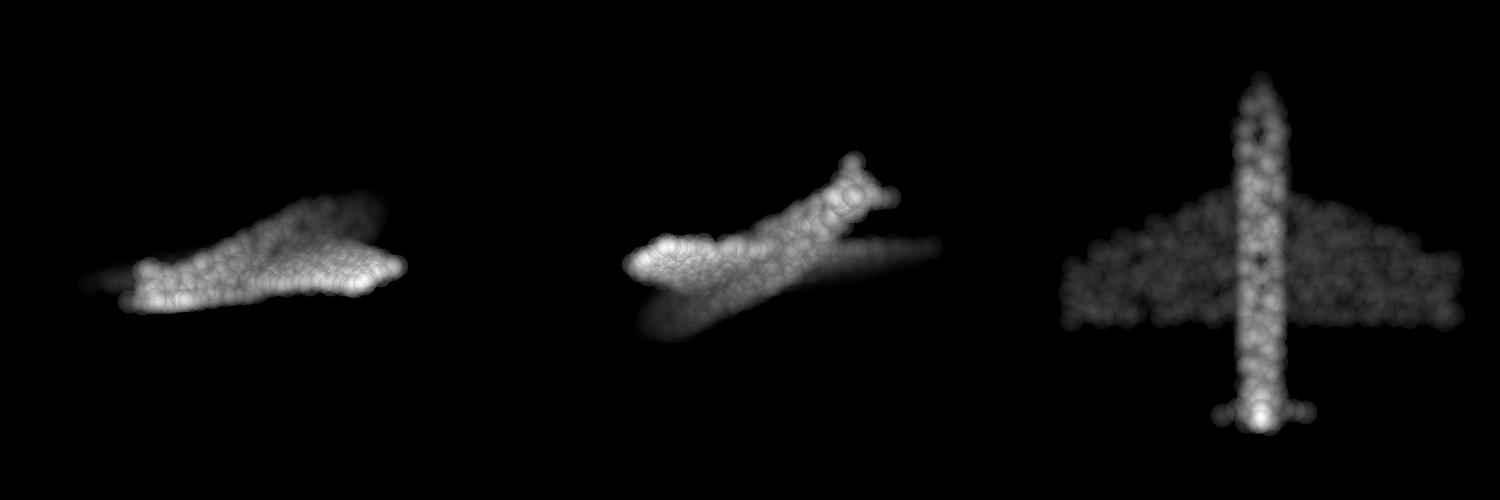
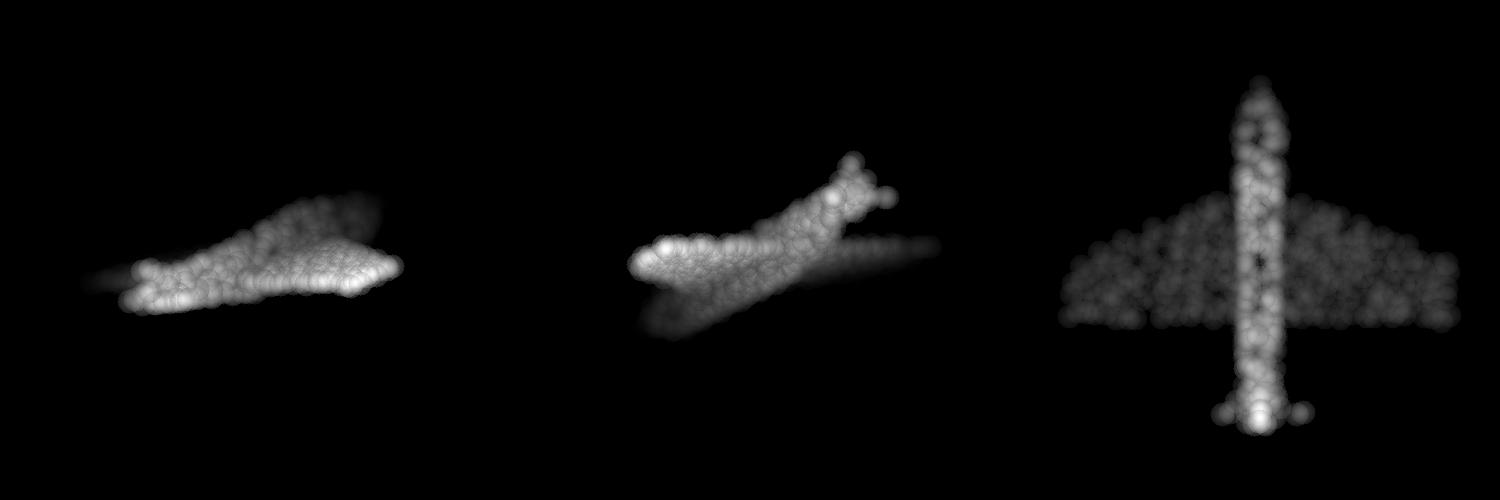
finish QB/FPS simulation

diff --git a/models/pointnet_util.py b/models/pointnet_util.py
@@ -6,9 +6,11 @@ import numpy as np
 from PIL import Image
 from visualizer.pc_utils import point_cloud_three_views
 DIMSORT = True
-DIMSORT_DIV = 8
+DIMSORT_DIV = 1
 DIMSORT_RANGE = int(2048 / DIMSORT_DIV)
 VISUALIZE = True
+TEST_FPS = False
+TEST_QB = False
 def timeit(tag, t):
     print("{}: {}s".format(tag, time() - t))
     return time()
@@ -99,6 +101,20 @@ def index_points_query_ball(radius, nsample, xyz, new_xyz):
 
     return new_points
 
+def determine_segment(sorted_array, num_segment):
+    seg_table = [0]
+    length = len(sorted_array)
+    
+    level_gap = 2.0 / num_segment
+    current_level = -1.0 + level_gap
+    for i in range(length):
+        if sorted_array[i] > current_level:
+            seg_table.append(i)
+            current_level += level_gap
+    while len(seg_table) < num_segment + 1:
+        seg_table.append(length)
+    return seg_table
+
 def index_points_query_ball_include_points(radius, nsample, xyz, xyz2, new_xyz):
     """
     Input:
@@ -117,7 +133,17 @@ def index_points_query_ball_include_points(radius, nsample, xyz, xyz2, new_xyz):
     group_idx = torch.zeros([B, S, nsample]).long()
     permu_list = torch.randperm(N)
     for i in range(B):
+        if not TEST_FPS:
+            seg_table = determine_segment(xyz[i, :, 2], DIMSORT_DIV)
+            # print(seg_table)
+
         for j in range(S):
+
+            if not TEST_FPS:
+                lower = seg_table[int(((new_xyz[i, j, 2] + 1.0) * DIMSORT_DIV) // 2)]
+                upper = seg_table[int(((new_xyz[i, j, 2] + 1.0) * DIMSORT_DIV) // 2 + 1)]
+                permu_list = lower + torch.randperm(upper - lower)
+
             count = 0
             for k in permu_list:
                 dist = (torch.sum(torch.square(xyz[i, k, :] - new_xyz[i, j, :])))
@@ -146,16 +172,33 @@ def farthest_point_sample(xyz, npoint):
     device = xyz.device
     B, N, C = xyz.shape
     centroids = torch.zeros(B, npoint, dtype=torch.long).to(device)
-    distance = torch.ones(B, N).to(device) * 1e10
-    farthest = torch.randint(0, N, (B,), dtype=torch.long).to(device)
-    batch_indices = torch.arange(B, dtype=torch.long).to(device)
-    for i in range(npoint):
-        centroids[:, i] = farthest
-        centroid = xyz[batch_indices, farthest, :].view(B, 1, 3)
-        dist = torch.sum((xyz - centroid) ** 2, -1)
-        mask = dist < distance
-        distance[mask] = dist[mask]
-        farthest = torch.max(distance, -1)[1]
+
+    if DIMSORT and not TEST_QB:
+        for b in range(B):
+            distance = torch.ones(1, N).to(device) * 1e10
+            farthest = torch.randint(0, N, (1,), dtype=torch.long).to(device)
+            for i in range(npoint):
+                centroids[b, i] = farthest
+                centroid = xyz[b, farthest, :].view(1, 3)
+                upper = farthest + DIMSORT_RANGE//2 if farthest <= N - DIMSORT_RANGE//2 else N
+                lower = farthest - DIMSORT_RANGE//2 if farthest > DIMSORT_RANGE//2 else 0
+                dist = torch.ones(1, N).to(device) * 1e10
+                dist[0, lower:upper] = torch.sum((xyz[b, lower:upper, :] - centroid) ** 2, -1)
+                mask = dist < distance
+                distance[mask] = dist[mask]
+                farthest = torch.max(distance, dim = -1)[1].long()
+    else:
+        distance = torch.ones(B, N).to(device) * 1e10
+        farthest = torch.randint(0, N, (B,), dtype=torch.long).to(device)
+        batch_indices = torch.arange(B, dtype=torch.long).to(device)
+        for i in range(npoint):
+            centroids[:, i] = farthest
+            centroid = xyz[batch_indices, farthest, :].view(B, 1, 3)
+            dist = torch.sum((xyz - centroid) ** 2, -1)
+            mask = dist < distance
+            distance[mask] = dist[mask]
+            farthest = torch.max(distance, -1)[1]
+    
     return centroids
 
 
@@ -173,7 +216,7 @@ def query_ball_point(radius, nsample, xyz, new_xyz):
     B, N, C = xyz.shape
     _, S, _ = new_xyz.shape
     group_idx = torch.arange(N, dtype=torch.long).to(device).view(1, 1, N).repeat([B, S, 1])
-    
+
     sqrdists = square_distance(new_xyz, xyz) # calculate square distance in a sequential way and xxx
 
     group_idx[sqrdists > radius ** 2] = N
@@ -351,6 +394,7 @@ class PointNetSetAbstractionMsg(nn.Module):
         new_xyz = index_points(xyz, farthest_point_sample(xyz, S))
         
         if VISUALIZE:
+            print("save FPS sampled PD")
             im_array = point_cloud_three_views(new_xyz.numpy()[0, :, :])
             img = Image.fromarray(np.uint8(im_array * 255.0))
             img.save('pd0-sample{}.jpg'.format(new_xyz.size(1)))

diff --git a/test_partseg.py b/test_partseg.py
@@ -12,6 +12,8 @@ import importlib
 from tqdm import tqdm
 import numpy as np
 from models.pointnet_util import pcloud_sort, DIMSORT, DIMSORT_RANGE, VISUALIZE
+from PIL import Image
+from visualizer.pc_utils import point_cloud_three_views
 BASE_DIR = os.path.dirname(os.path.abspath(__file__))
 ROOT_DIR = BASE_DIR
 sys.path.append(os.path.join(ROOT_DIR, 'models'))
@@ -106,8 +108,7 @@ def main(args):
         if DIMSORT:
             points, target = pcloud_sort(points, target, sel_dim = 2)
         if VISUALIZE:
-            from PIL import Image
-            from visualizer.pc_utils import point_cloud_three_views
+            print("save FPS sampled PD")
             im_array = point_cloud_three_views(points.numpy()[0, :, :])
             img = Image.fromarray(np.uint8(im_array * 255.0))
             img.save('pd0-orig.jpg')
